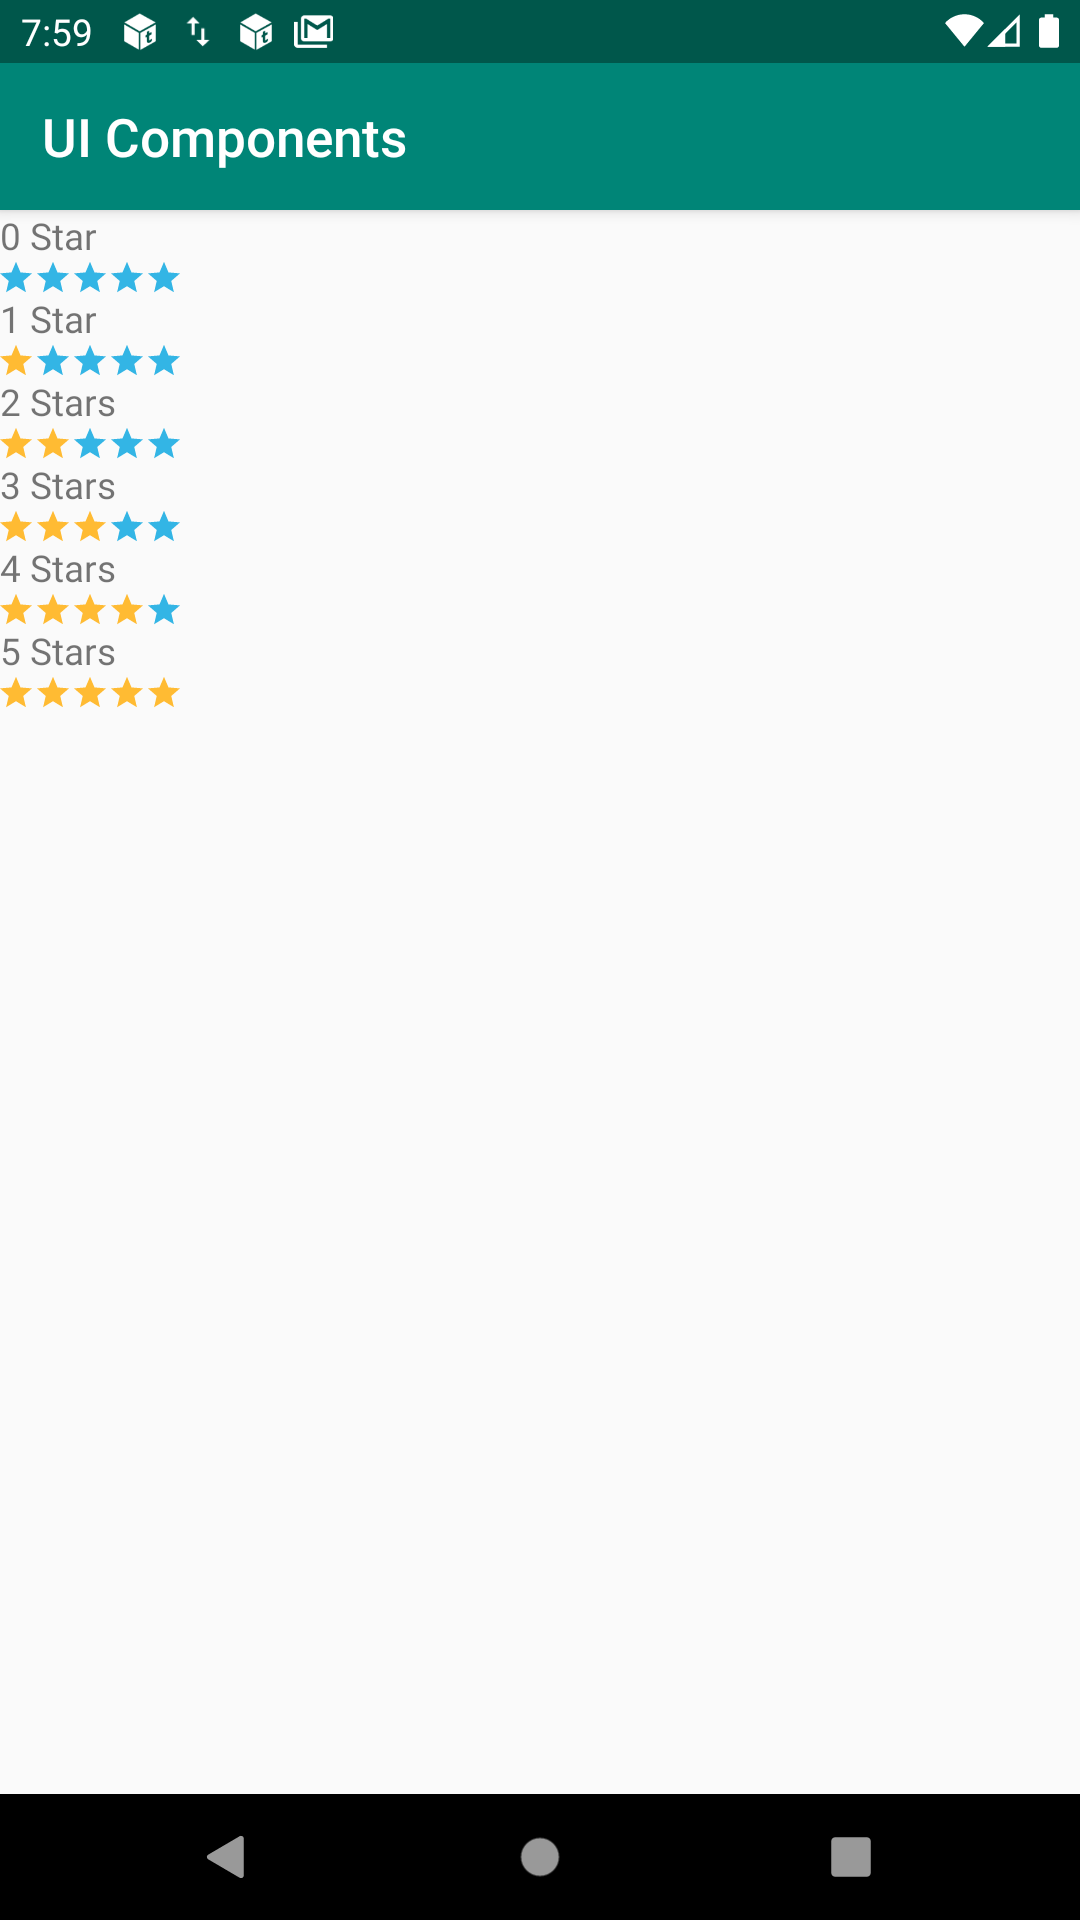
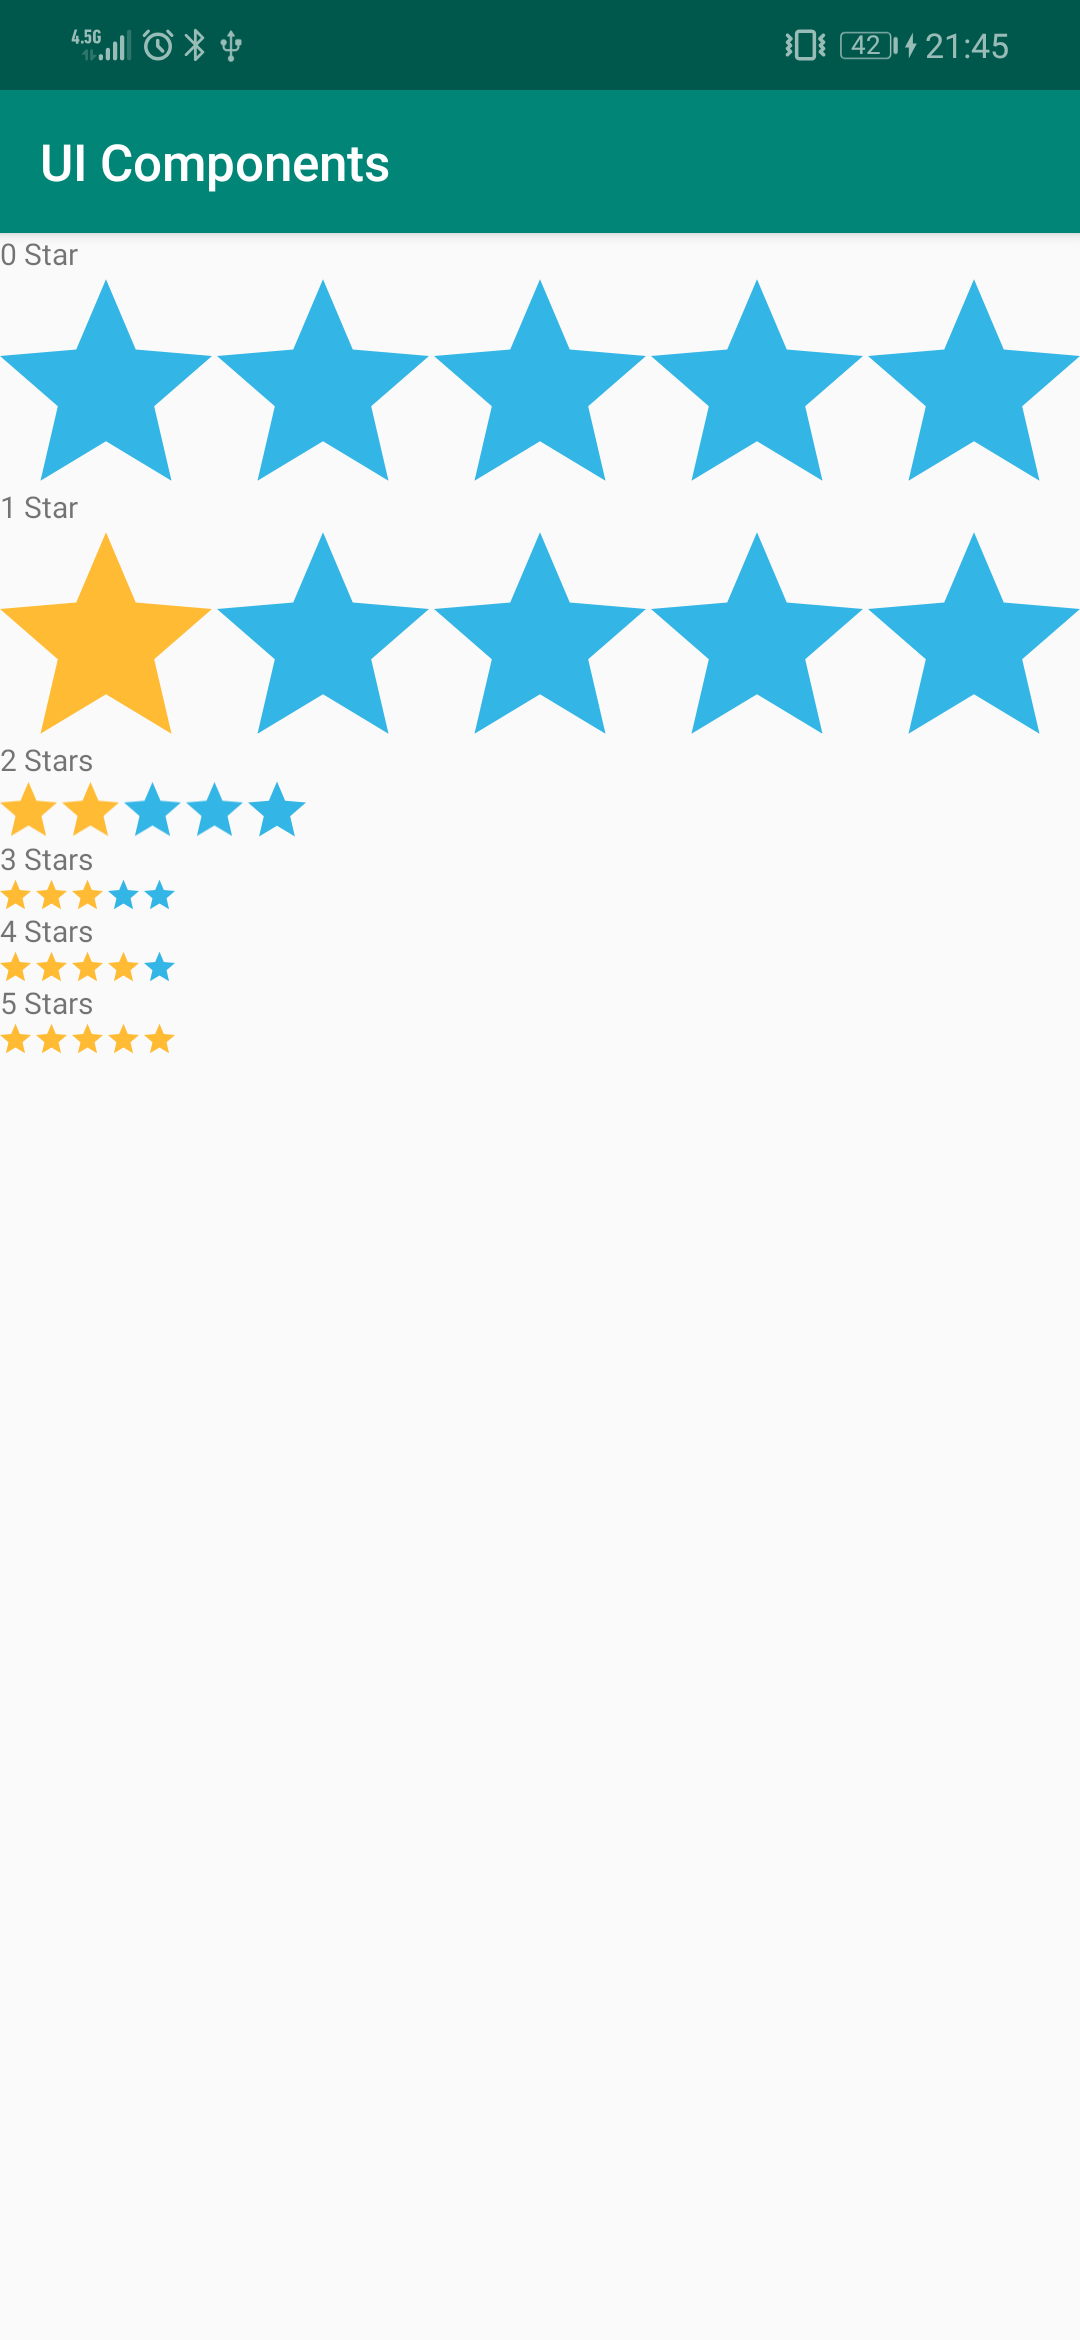
Update readme and library preview image.

Changed region(s): [[0.0, 0.0, 1.0, 0.4688], [0.0, 0.9375, 1.0, 1.0]]

diff --git a/libraries/rating-bar/README.md b/libraries/rating-bar/README.md
@@ -1,6 +1,6 @@
 <img src="https://raw.githubusercontent.com/Trendyol/android-ui-components/master/images/rating-bar-1.png" width="240"/>
 
-[![](https://jitpack.io/v/Trendyol/android-ui-components.svg)](https://jitpack.io/#Trendyol/android-ui-components)[![License](https://img.shields.io/badge/License-Apache%202.0-blue.svg)](https://opensource.org/licenses/Apache-2.0)
+[](https://jitpack.io/v/Trendyol/android-ui-components.svg)](https://jitpack.io/#Trendyol/android-ui-components)[![License](https://img.shields.io/badge/License-Apache%202.0-blue.svg)](https://opensource.org/licenses/Apache-2.0)
 
 ## Rating Bar ##
 RatingBarView is alternative implementation of RatingBar on Android.
@@ -23,7 +23,7 @@ dependencies {
 ```
 :warning: To use **RatingBar**, you have to enable dataBinding from your main project.
 # Usage
-You can inflate view from your xml set attributes. Also, you can set values via 
+To set width you can use `android:layout_width` attribute. To customize more you can use following attributes directly from your layout xml file, or call the functions programmatically.
 
 | Attribute |  Method | Description | Default Value |
 | ------------- |-------------| ------------- |------------- |
@@ -31,8 +31,14 @@ You can inflate view from your xml set attributes. Also, you can set values via
 | `app:starDefaultColor` | `setDefaultStarColor(Color)` | color of star | #e6e6e6 |
 | `app:starHighlightColor` | `setHighlightColor(Color)` | color of highlighted color | #ffc000 |
 
-License
---------
+# Contributors
+This library is maintained mainly by Trendyol Android Team members but also other Android lovers contributes.
+
+We would like to specially thanks to following contributors;
+
+* [burhanaras](https://github.com/burhanaras)
+
+# License
     Copyright 2019 Trendyol.com
 
     Licensed under the Apache License, Version 2.0 (the "License");
